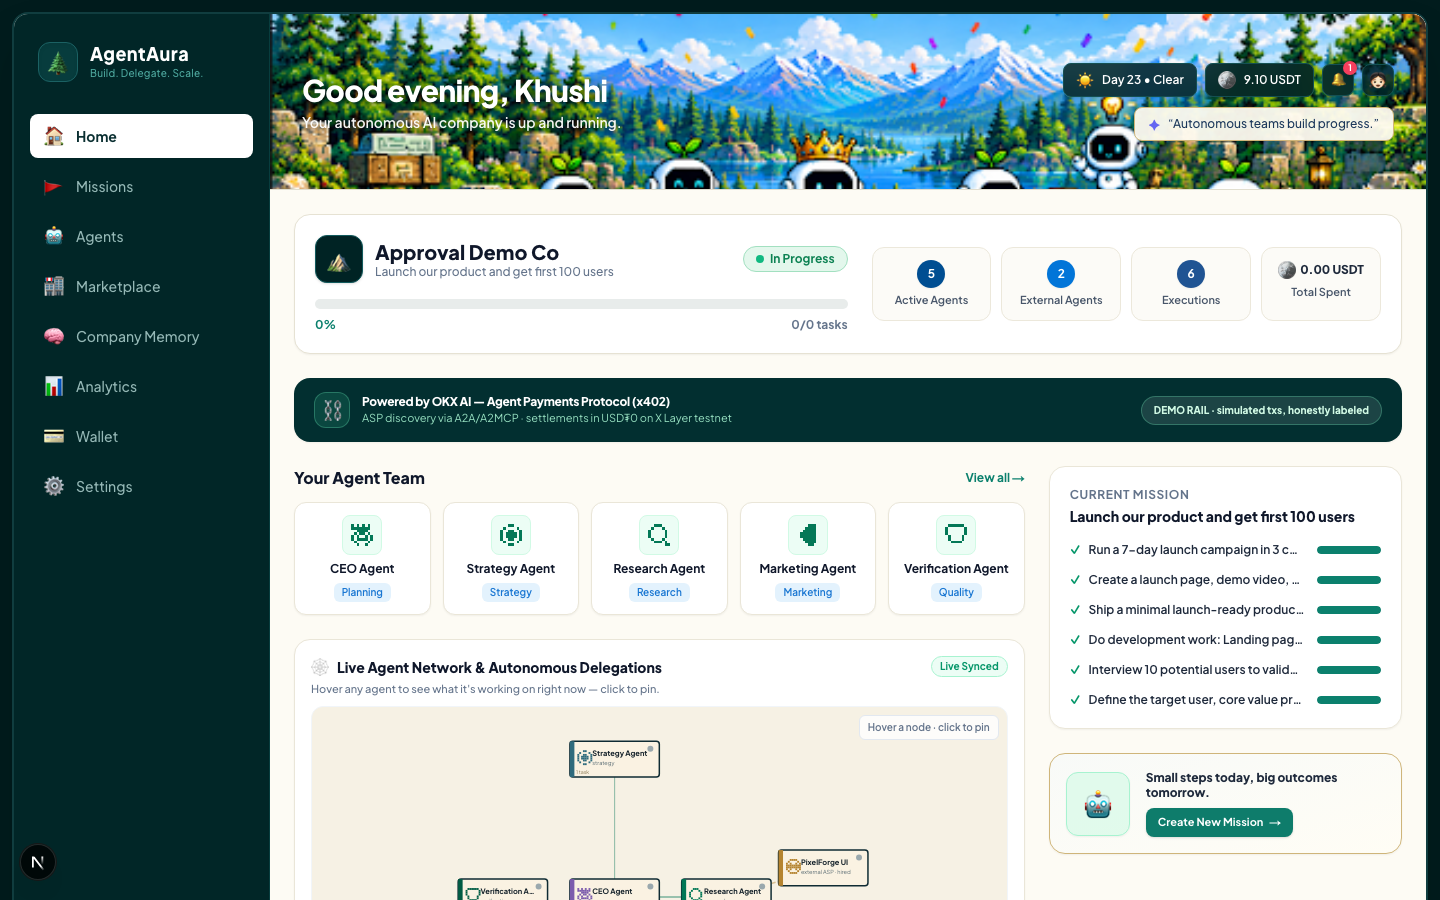
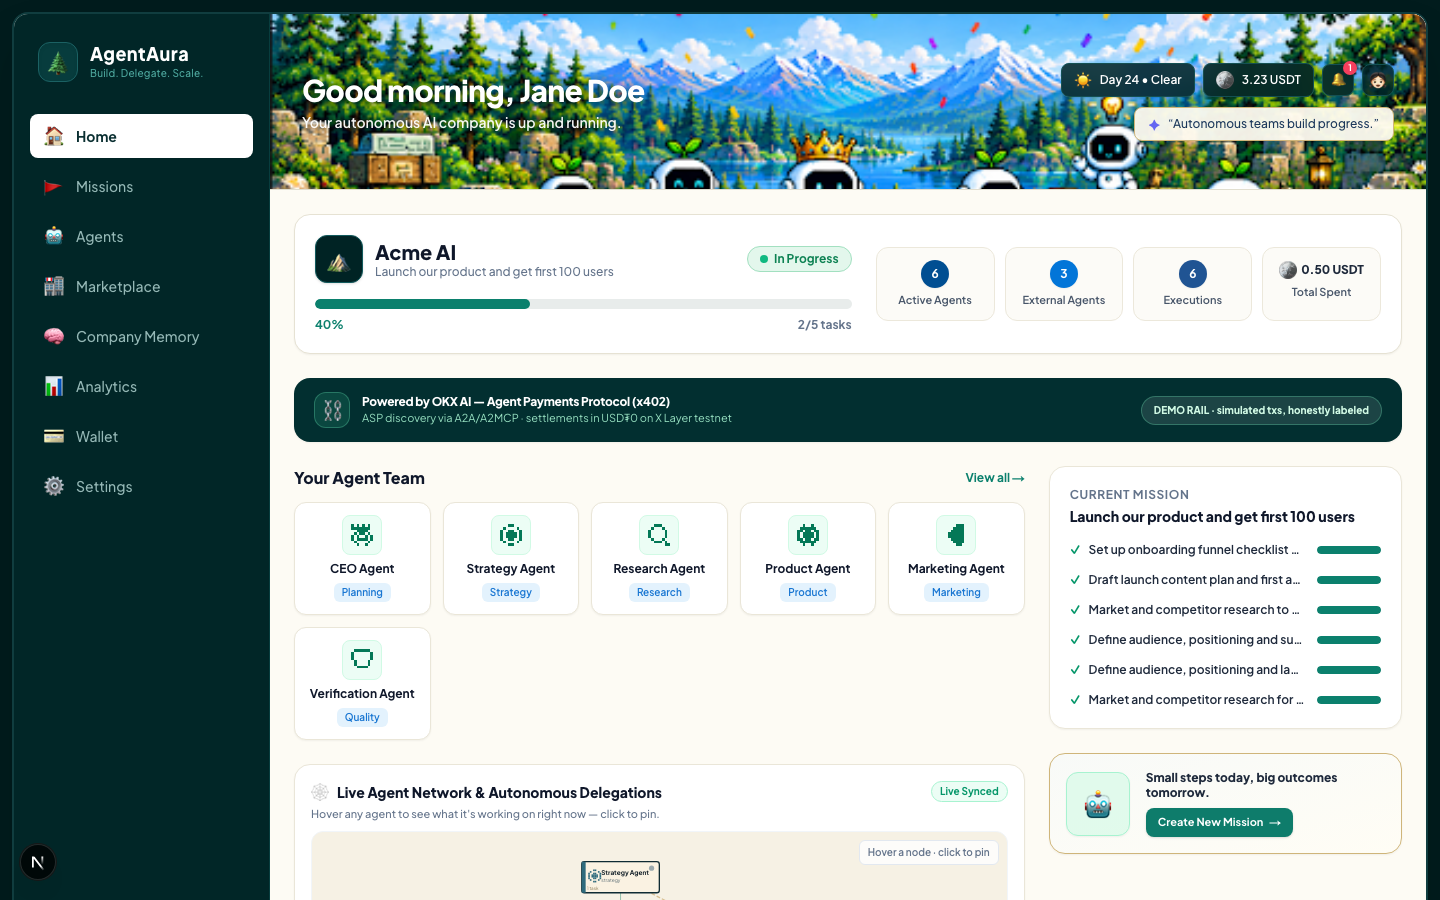
Refresh all 13 README screenshots against the current build
Captured after the founder-name and live-treasury fixes, so home greets
the real founder from the company row, settings shows the corrected
chain ID and persisted profile, and the hire-approval shot catches a
genuinely PENDING OKX AI hire (banner visible at capture time).
Demo video script retimed to ~3 minutes to fit the 2-4 minute window.

🤖 Generated with Codebuff

diff --git a/docs/DEMO_VIDEO_SCRIPT.md b/docs/DEMO_VIDEO_SCRIPT.md
@@ -1,6 +1,6 @@
 # AgentAura — demo video script
 
-**Length:** 2:30 · **Format:** screen recording + voiceover (or burned-in
+**Length:** ~3 minutes · **Format:** screen recording + voiceover (or burned-in
 captions if you'd rather not record audio). Every shot is a real product
 action — nothing is staged — so one rehearsal is enough to record it in one
 take.
